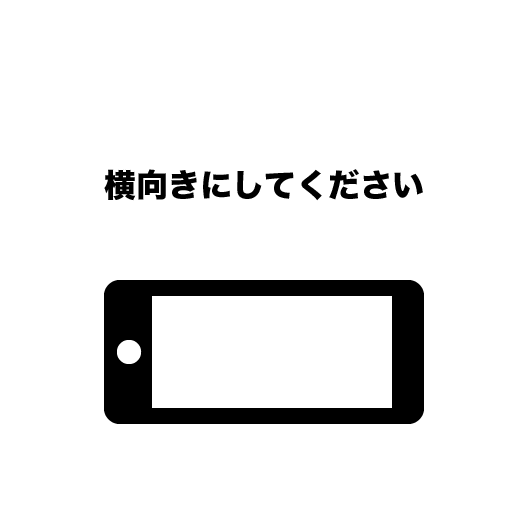
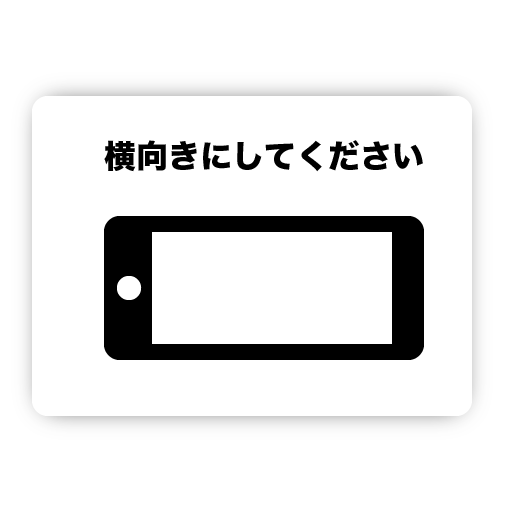
警告メッセージ画像を変更した

diff --git a/src/game-object/warning/play-in-landscape/index.js b/src/game-object/warning/play-in-landscape/index.js
@@ -8,7 +8,7 @@ import type {GameObjectAction} from "../../../action/game-object-action";
 import {CANVAS_IMAGE_IDS} from "../../../resource/canvas-image";
 
 /** キャンバスサイズ */
-export const CANVAS_SIZE = 400;
+export const CANVAS_SIZE = 512;
 
 /**
  * ランドスケープでプレイするように促す警告
